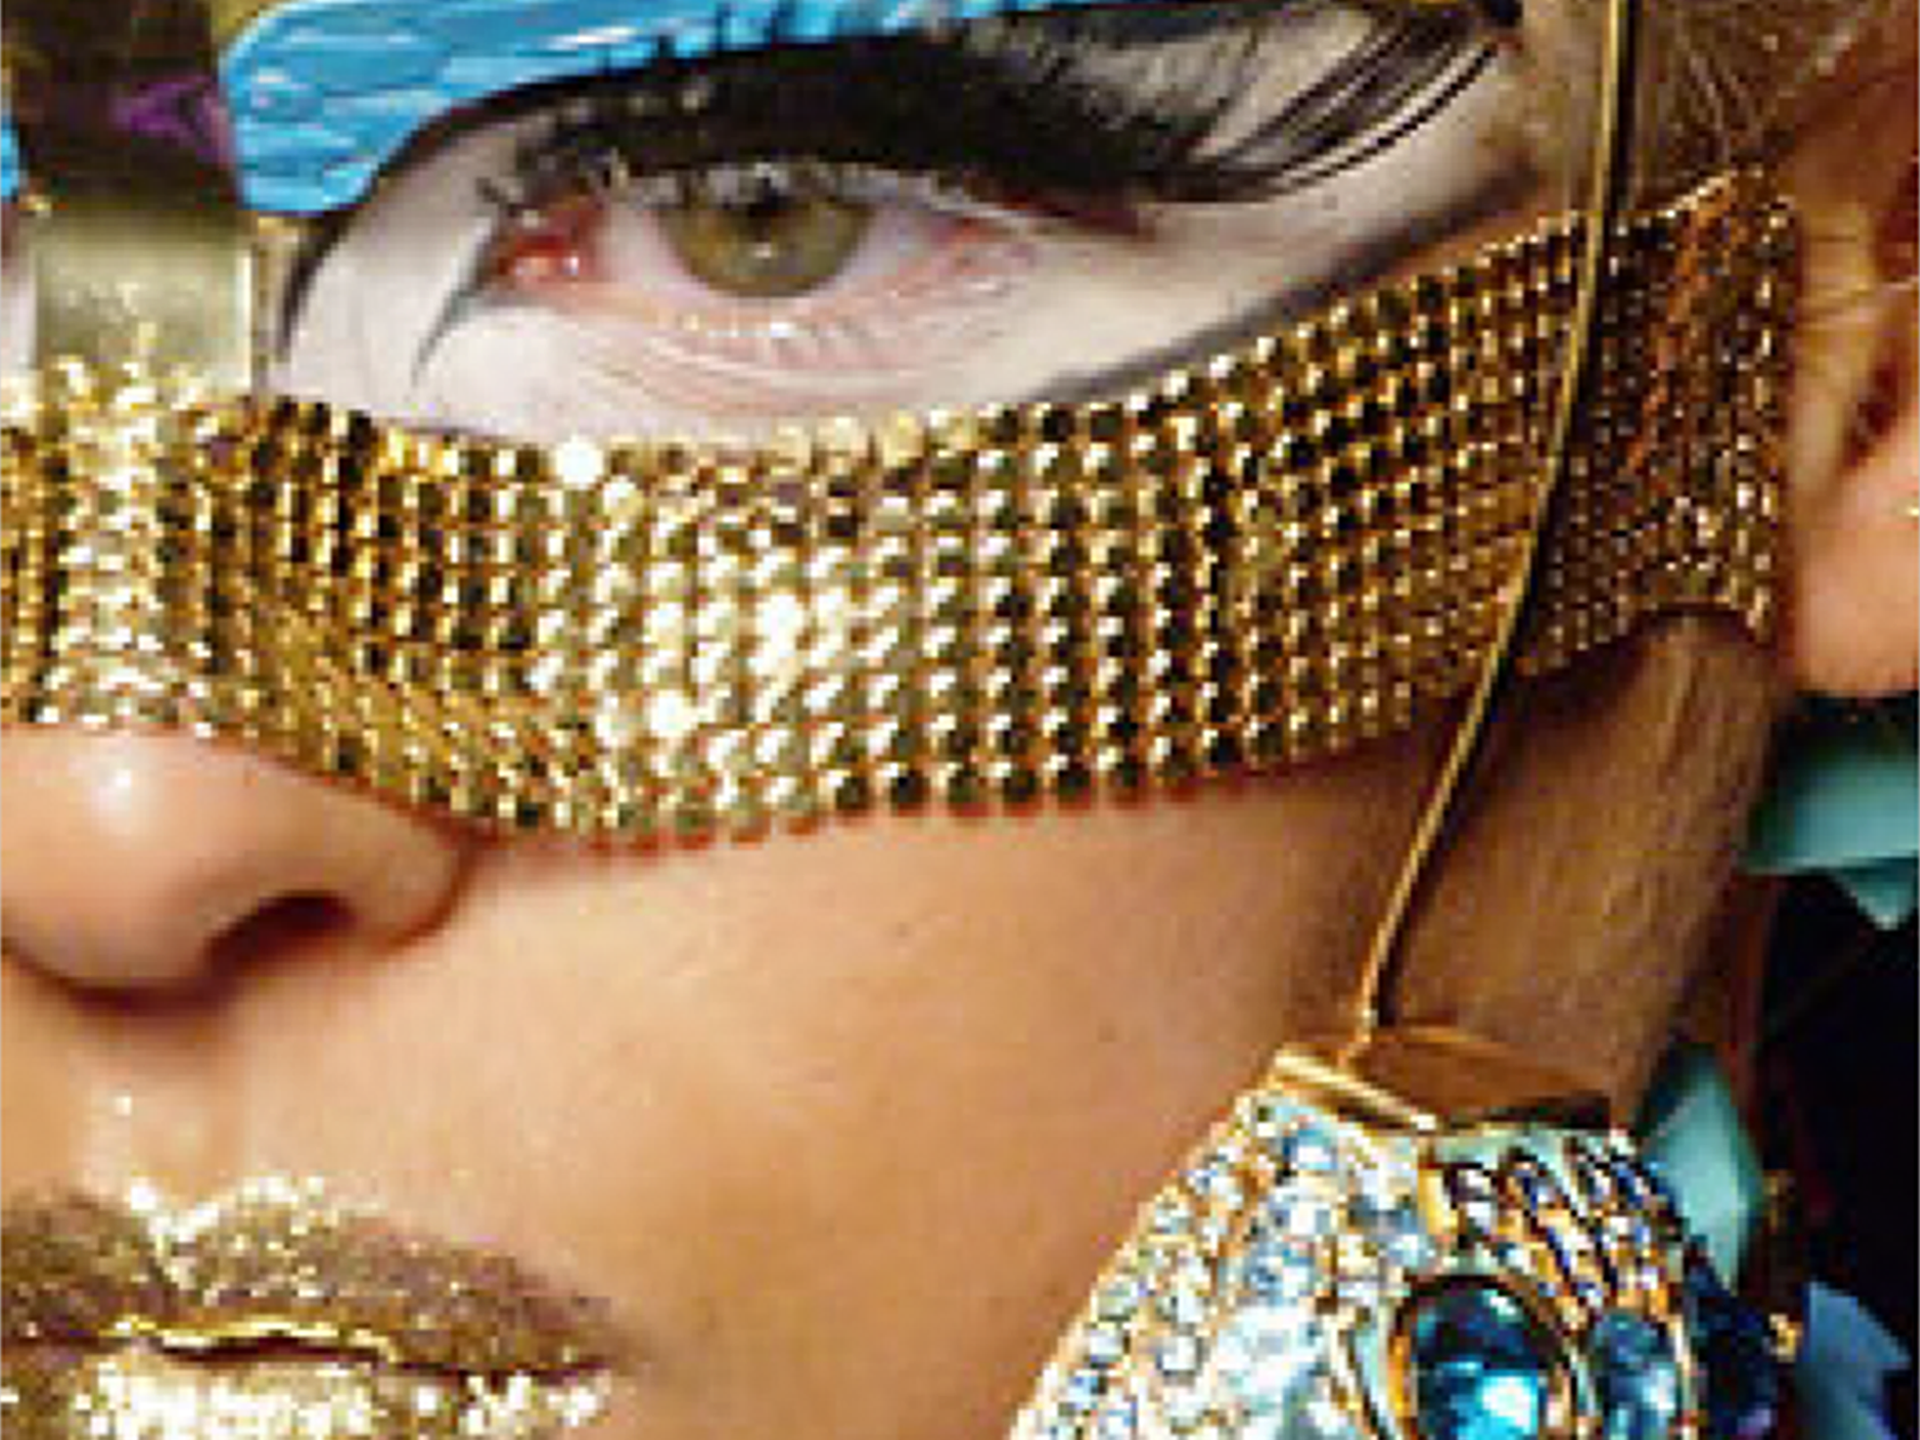
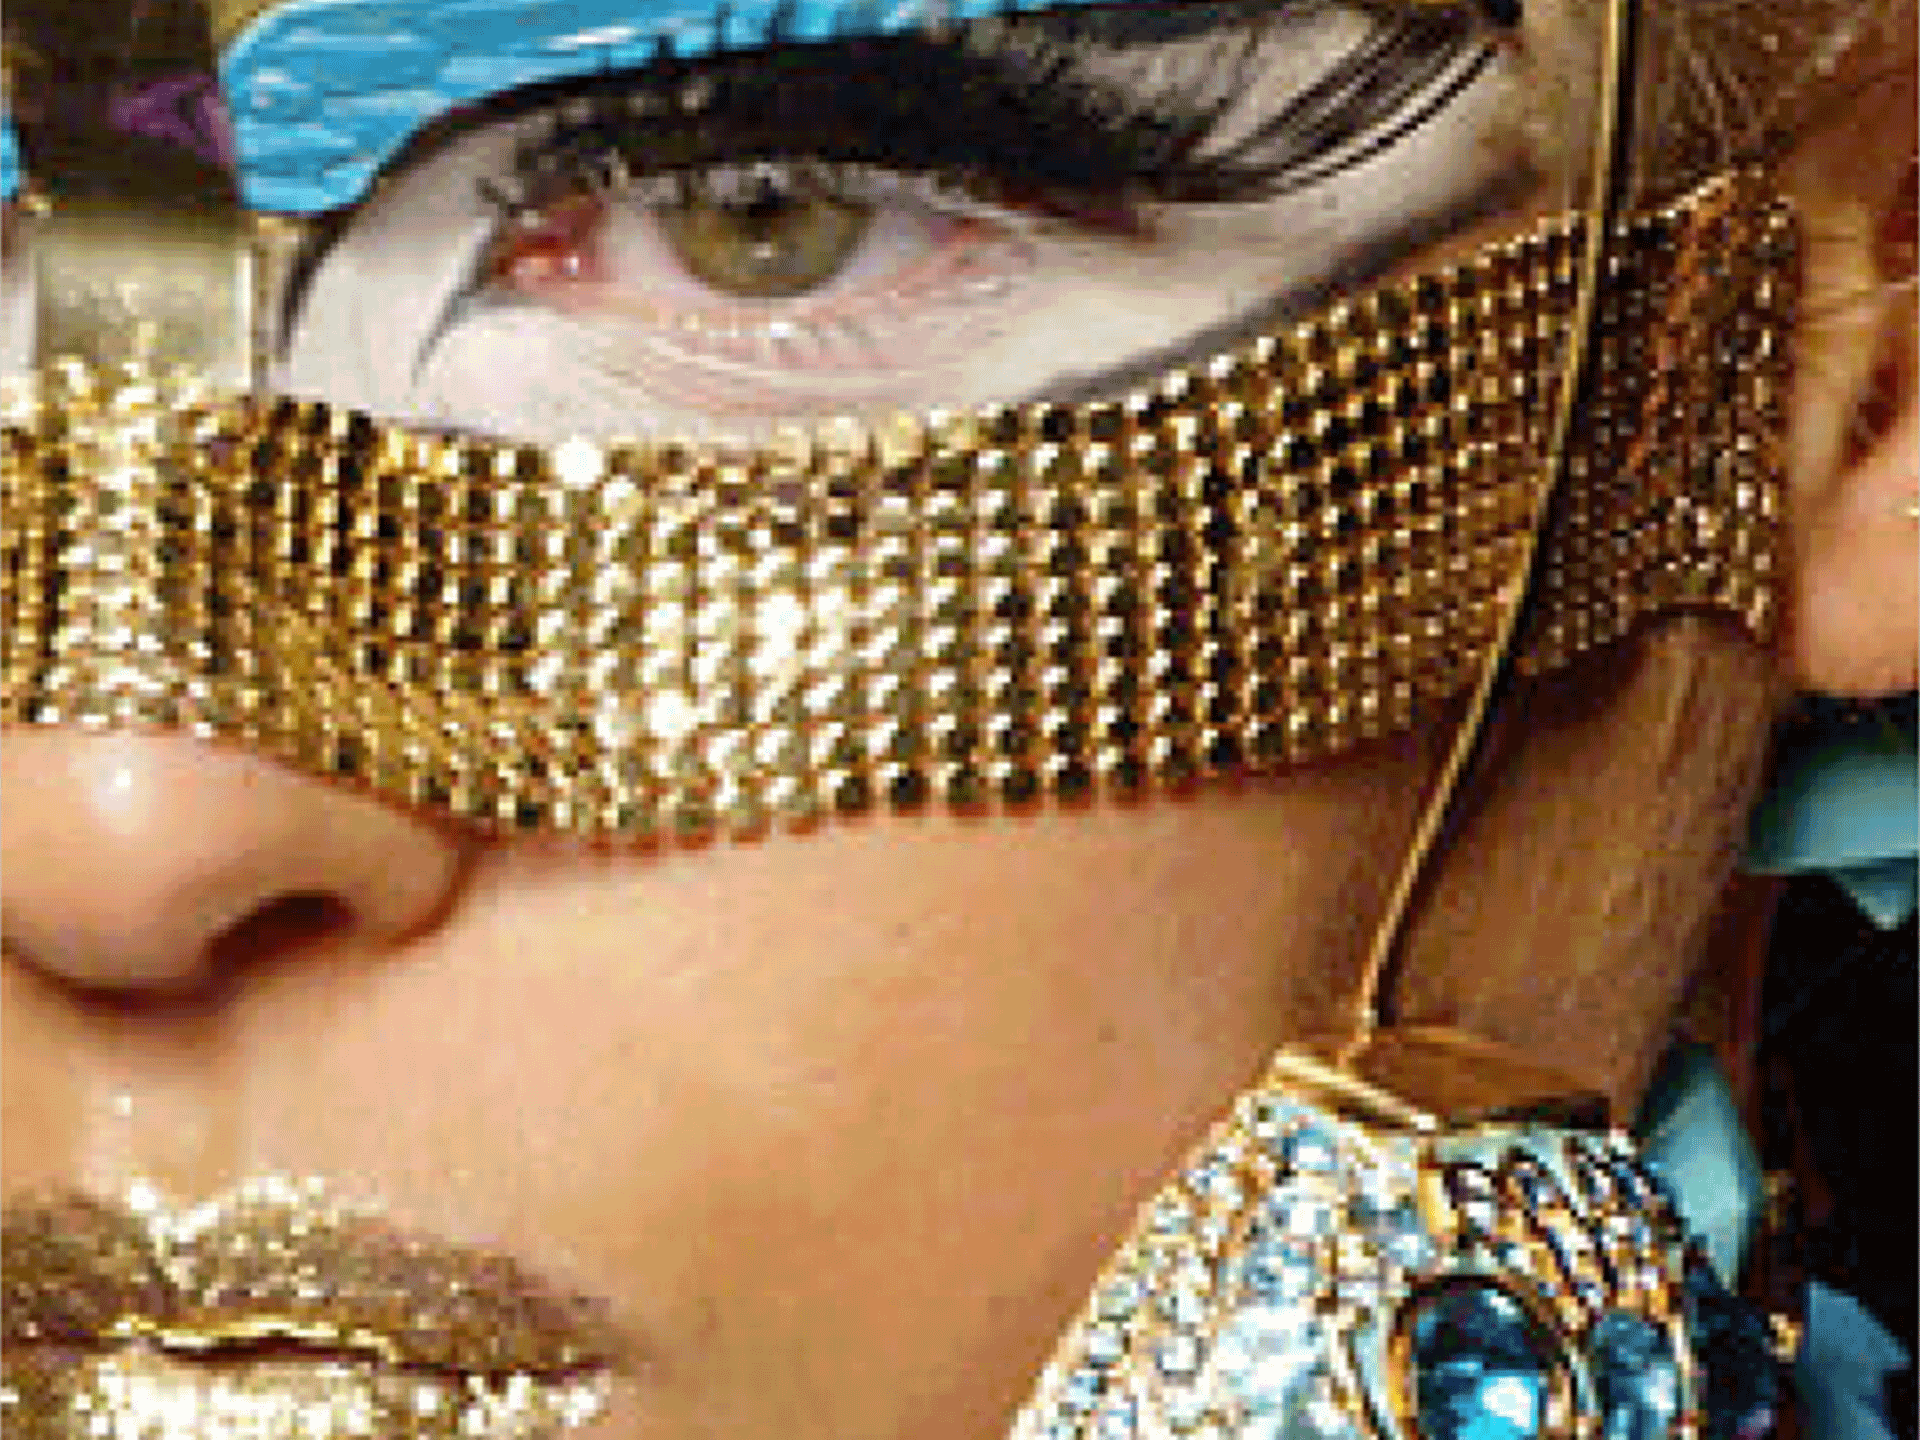
Update images for smaller size

diff --git a/app/assets/stylesheets/mcsubscribe.css.scss b/app/assets/stylesheets/mcsubscribe.css.scss
@@ -45,7 +45,7 @@ body {
 }
 .randomBackground.Color-01 {background: image-url('signup/Color-01.png') no-repeat;}
 .randomBackground.Color-02 {background: image-url('signup/Color-02.png') no-repeat;}
-.randomBackground.Color-03 {background: image-url('signup/Color-03.png') no-repeat;}
+.randomBackground.Color-03 {background: image-url('signup/Color-03.jpg') no-repeat; background-size: cover;}
 .randomBackground.Color-04 {background: image-url('signup/Color-04.png') no-repeat;}
 .randomBackground.Color-05 {background: image-url('signup/Color-05.png') no-repeat;}
 
